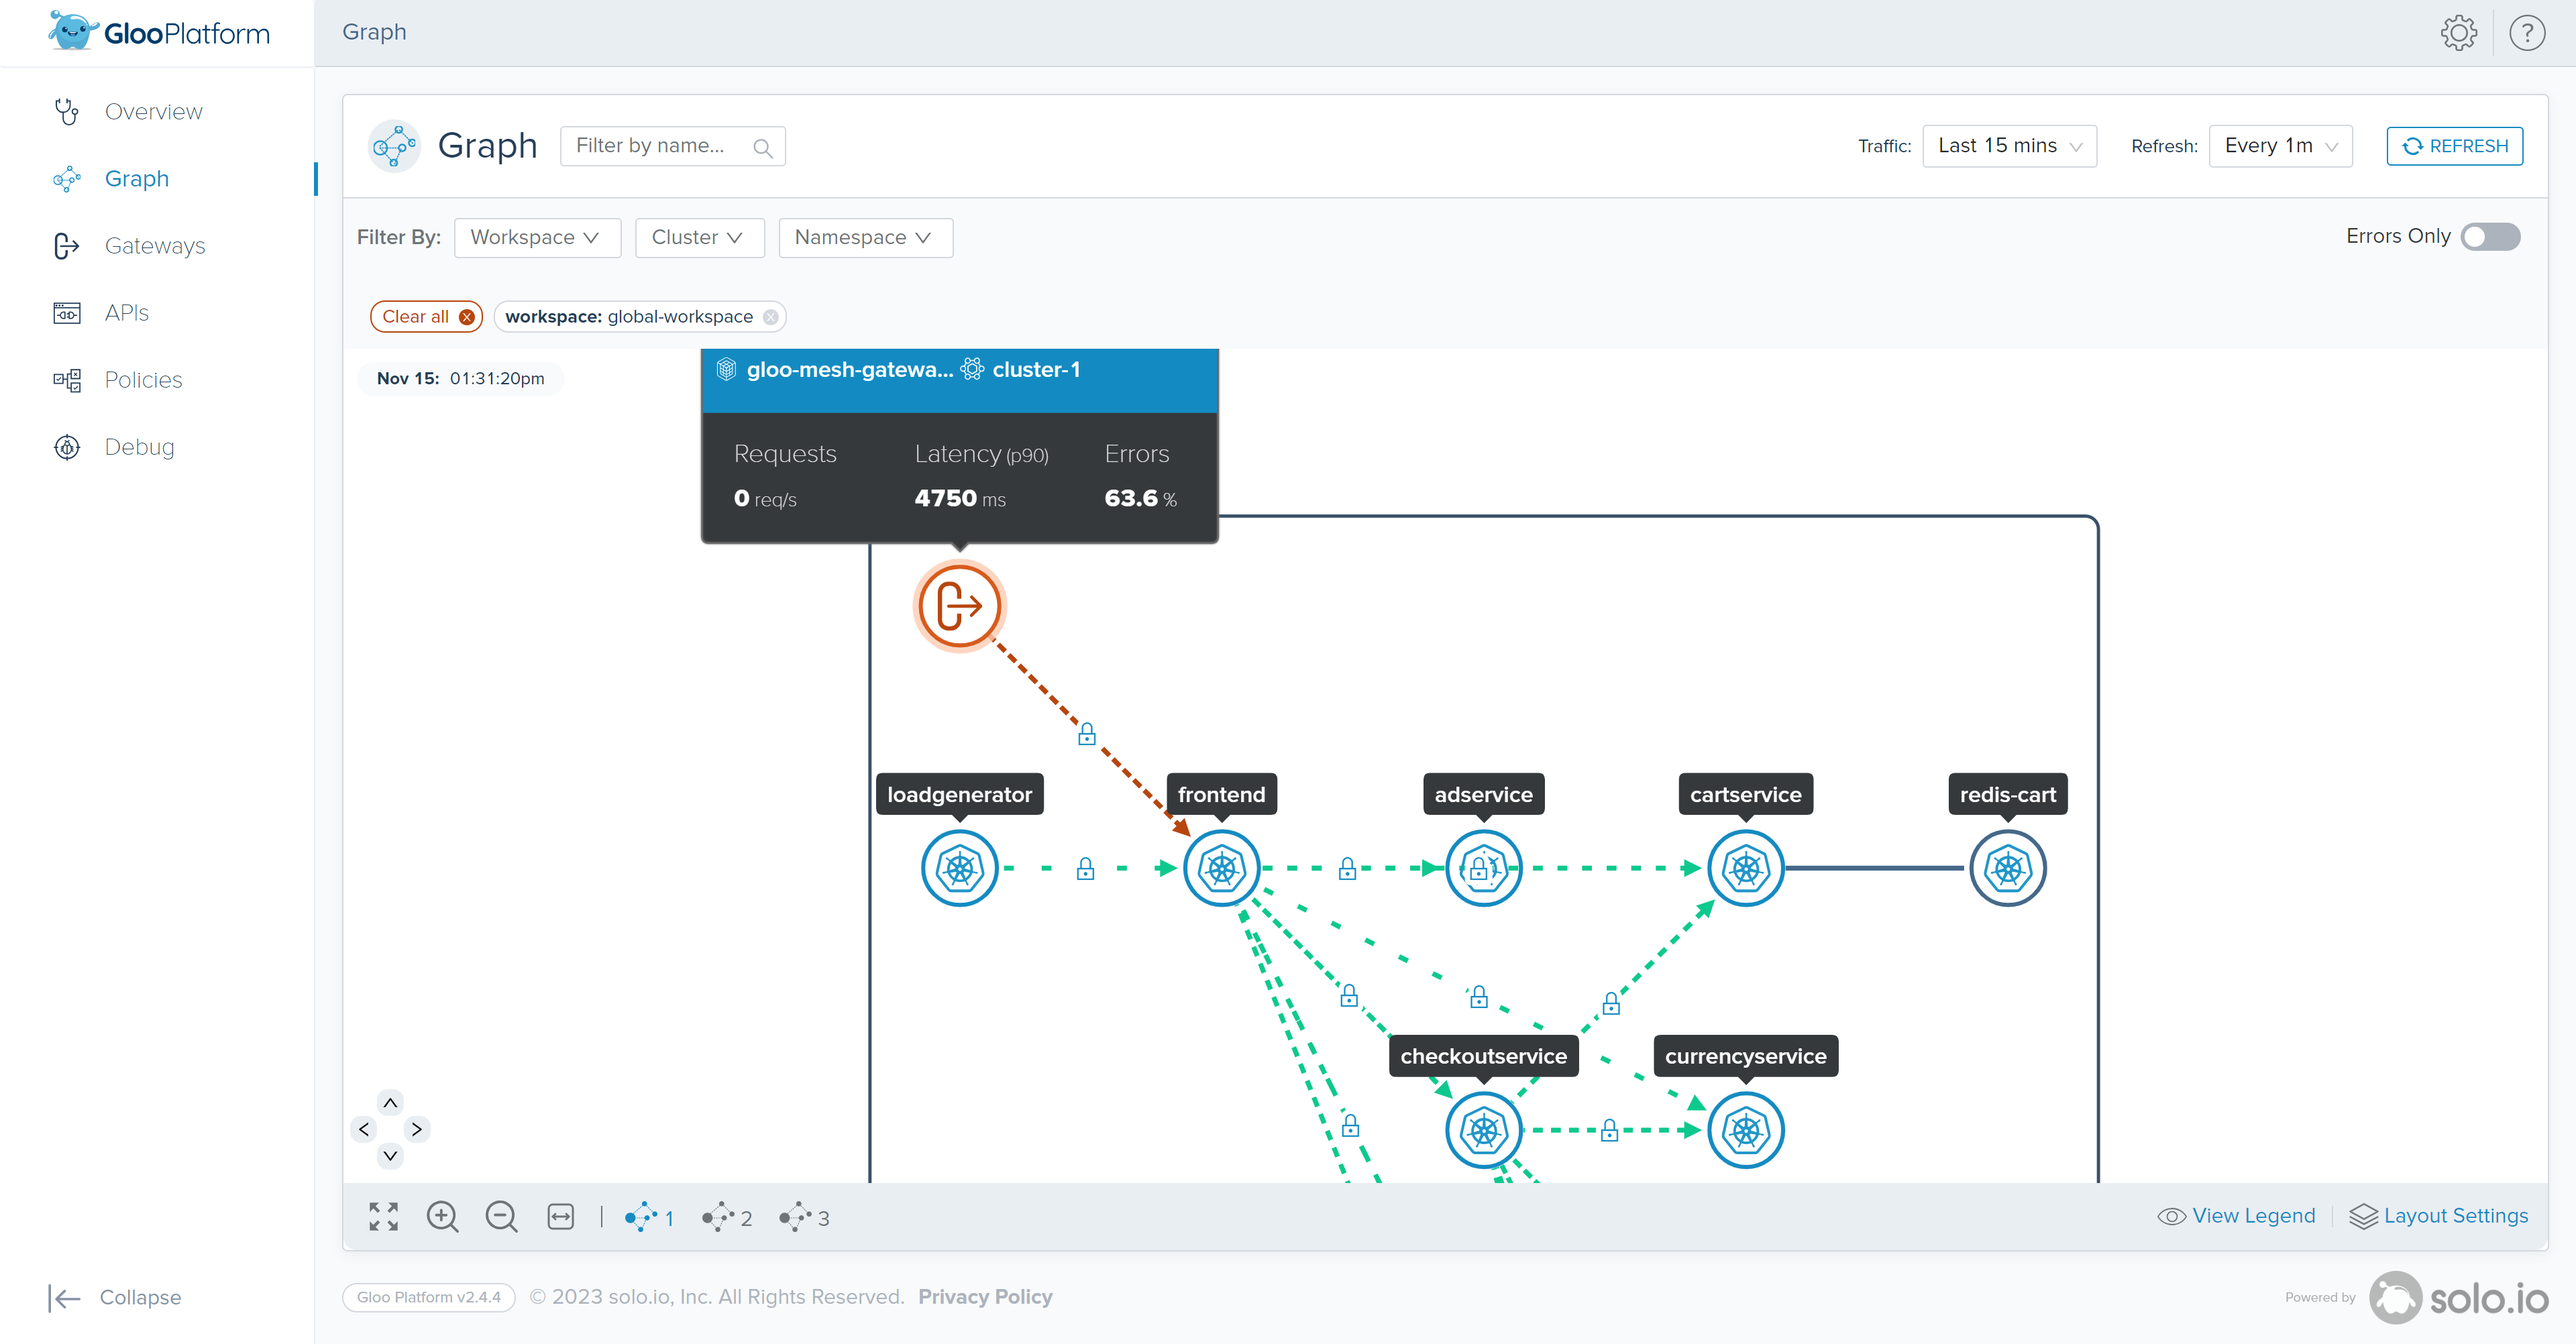
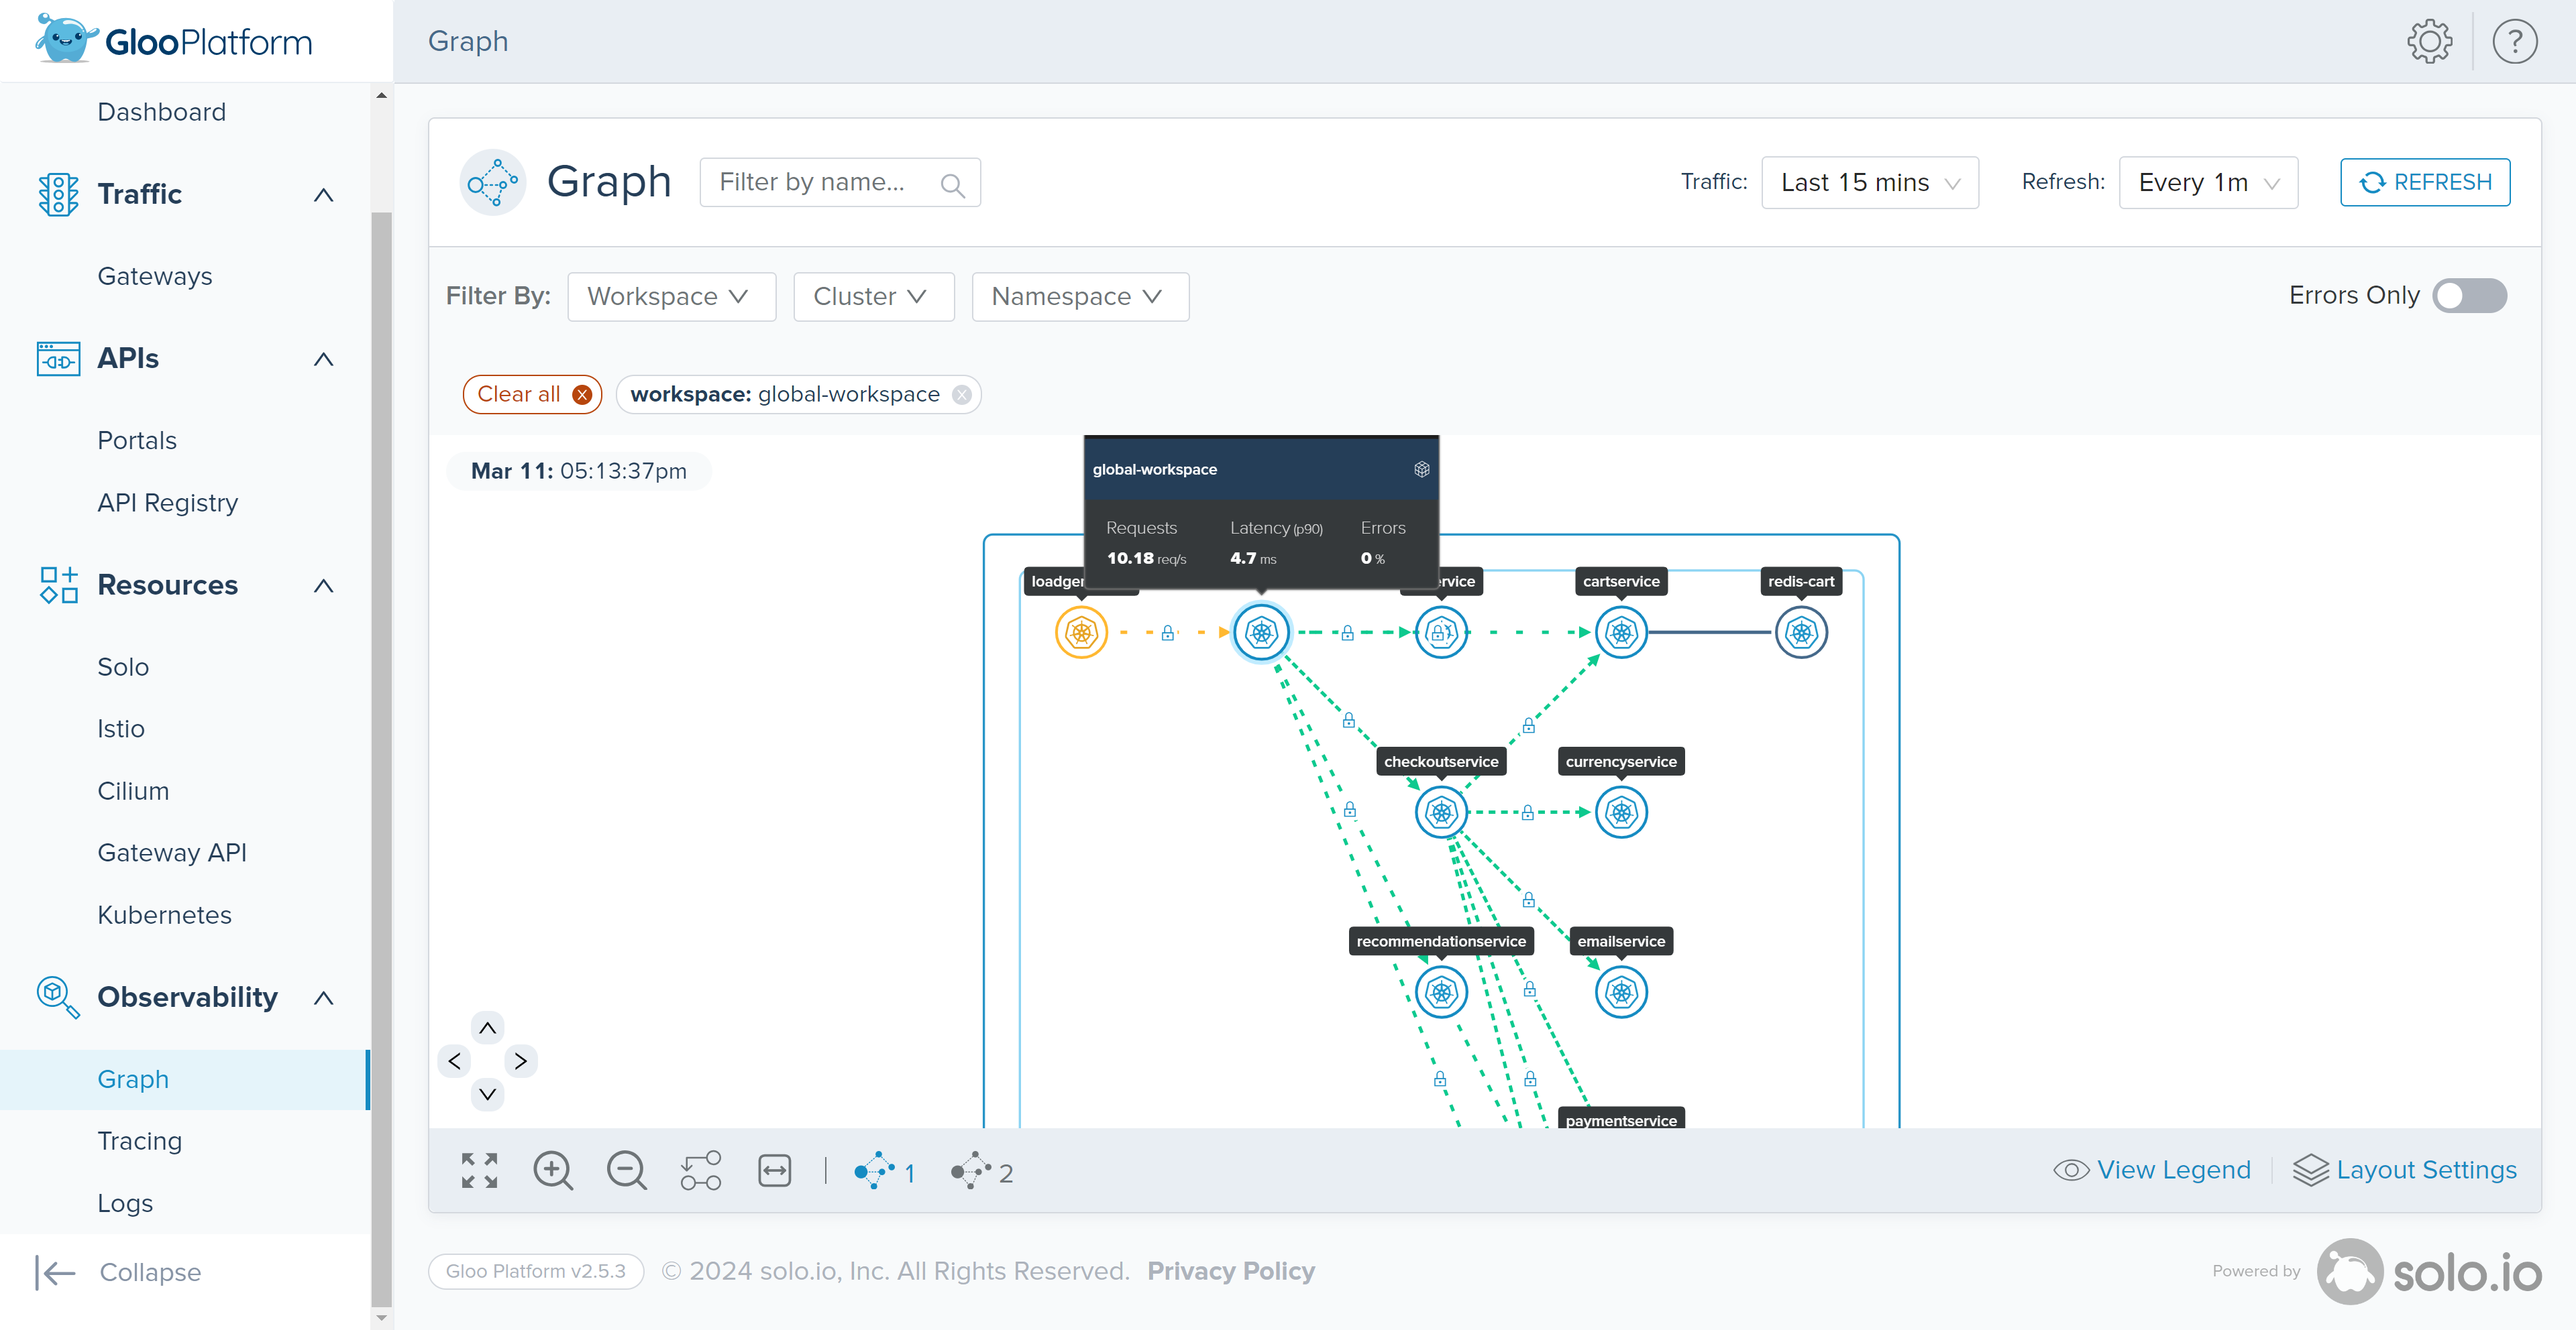
Added EKS create cluster instructions. Updated the workshop to the most recent version of Gloo Mesh

diff --git a/content/1_Solo_Workshop/Lab_7.md b/content/1_Solo_Workshop/Lab_7.md
@@ -18,13 +18,13 @@ Let's conclude this workshop by looking at the Gloo Dashboard again and explorin
 
    ![](/images/dashboard-home.png)
 
-3. The Policies page shows the various Access and Traffic Policies that we defined in this workshop.
-   ![](/images/dashboard-policy.png)
+3. The 'Solo' page within the 'Resources' section provides a comprehensive view of various API objects, including Access and Traffic Policies, that we've defined during this workshop."
+   ![](/images/dashboard-resources.png)
 
-4. The Debug page shows the Istio or Envoy configuration that was _generated_ by Gloo. Review the configuration of translated Istio resources to help debug issues.
-   ![](/images/dashboard-debug.png)
+4. The 'Istio' sub-section within the 'Resources' section shows the Istio or Envoy configuration that was _generated_ by Gloo. Review the configuration of translated Istio resources to help debug issues.
+   ![](/images/dashboard-istio.png)
 
-5. The Graph page is used to visualize the network traffic that enters your cluster in a graph that maps out all the nodes by workspace, namespace, or cluster.
+5. The Graph page within the 'Observability' section is used to visualize the network traffic that enters your cluster in a graph that maps out all the nodes by workspace, namespace, or cluster.
    ![](/images/dashboard-graph.png)
 
 This lab, as the final chapter of our Gloo Platform EKS Workshop, brought everything together by showcasing the Gloo Dashboard, an integral component for monitoring and managing the Gloo environment. Through this lab, you've had the opportunity to explore various dashboard features, giving you insights into the health of workspaces and clusters, the policies we've implemented throughout the workshop, and valuable debugging and network traffic visualization tools.

diff --git a/content/0_Prerquisites/EKS.md b/content/0_Prerquisites/EKS.md
@@ -1,0 +1,37 @@
+---
+title: "EKS Cluster deployment"
+chapter: true
+weight: 2
+---
+
+## Setting Up Your Environment Variables
+
+Starting with setting up your environment variables is the most efficient approach. Please adjust these variables based on your specific AWS region:
+
+```
+export AWS_REGION=us-west-2
+export EKS_VERSION=1.28 
+export CLUSTER_NAME=solo-io-gloo-mesh-workshop
+NUMBER_NODES=3
+
+# Choose from compatible options - for example, the compute-optimized family with 8 vCPUs and 16.0 GiB of memory
+NODE_TYPE="c7i.xlarge" 
+```
+
+## Deploy Your Cluster with eksctl
+
+Use the following `eksctl` command to create your cluster. This command initiates the creation of CloudFormation stacks — one for the cluster and another for deploying the nodes:
+
+```
+eksctl create cluster --region $AWS_REGION \
+  --name $CLUSTER_NAME \
+  --nodes $NUMBER_NODES \
+  --node-type $NODE_TYPE \
+  --version=$EKS_VERSION 
+```
+
+![eksctl output example](/images/eksctl-output.png)
+
+Deployment will take 10-30 minutes and at the end your kubecontext will be pointing to this instance. 
+
+Now you're ready to dive into the workshop!

diff --git a/content/1_Solo_Workshop/Lab_1.md b/content/1_Solo_Workshop/Lab_1.md
@@ -19,7 +19,7 @@ Gloo Platform provides a management plane to interact with the service mesh and 
 2. Install **meshctl**, the Gloo command line tool for bootstrapping Gloo Platform, registering clusters, describing configured resources, and more. Be sure to download version 2.4.4, which uses the latest Gloo Mesh installation values.
 
     ```sh
-    curl -sL https://run.solo.io/meshctl/install | GLOO_MESH_VERSION=v2.4.4 sh -
+    curl -sL https://run.solo.io/meshctl/install | GLOO_MESH_VERSION=v2.5.3 sh -
     export PATH=$HOME/.gloo-mesh/bin:$PATH
     ```
 

diff --git a/content/1_Solo_Workshop/Lab_2.md b/content/1_Solo_Workshop/Lab_2.md
@@ -13,7 +13,8 @@ Deploy the Online Boutique microservices to the **online-boutique** namespace.
 ```sh
 kubectl create namespace online-boutique
 kubectl label ns online-boutique istio-injection=enabled
-helm upgrade --install online-boutique --version "5.0.0" oci://us-central1-docker.pkg.dev/solo-test-236622/solo-demos/onlineboutique \
+helm upgrade --install online-boutique \
+  oci://us-central1-docker.pkg.dev/solo-test-236622/solo-demos/onlineboutique \
   --create-namespace \
   --namespace online-boutique
 ```

diff --git a/content/0_Prerquisites/_index.md b/content/0_Prerquisites/_index.md
@@ -1,0 +1,10 @@
+---
+title: "Workshop Prerequisites"
+chapter: true
+weight: 1
+---
+
+# Prerequisite Details
+For this workshop, participants will need an EKS cluster in any region, equipped with at least 3 worker nodes. Each node should have a minimum specification of 4 vCPUs and 16GB of memory.
+
+Detailed steps for deploying the EKS Cluster are provided in the following section.

diff --git a/content/1_Solo_Workshop/Lab_4.md b/content/1_Solo_Workshop/Lab_4.md
@@ -53,7 +53,7 @@ where authorization checks will be performed:
         ref:
           cluster: cluster-1
           name: ext-auth-service
-          namespace: gloo-mesh-addons
+          namespace: gloo-mesh
         port:
           name: grpc
     ---

diff --git a/content/1_Solo_Workshop/_index.md b/content/1_Solo_Workshop/_index.md
@@ -1,7 +1,7 @@
 ---
 title: "Gloo Platform EKS Workshop"
 chapter: true
-weight: 1
+weight: 2
 ---
 
 # Introduction
